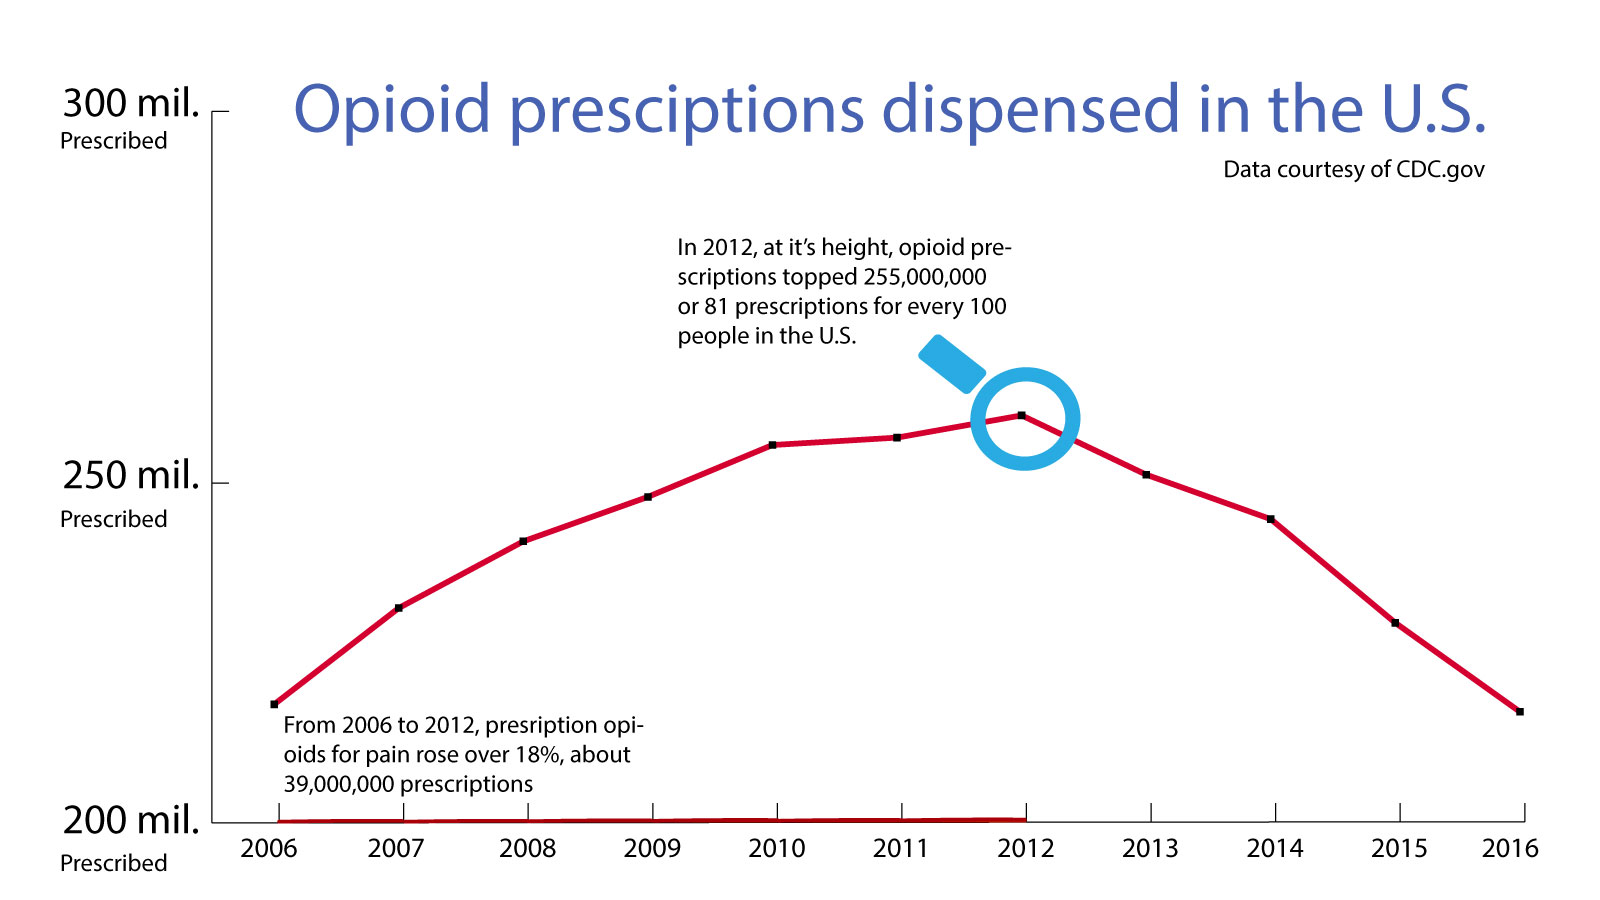
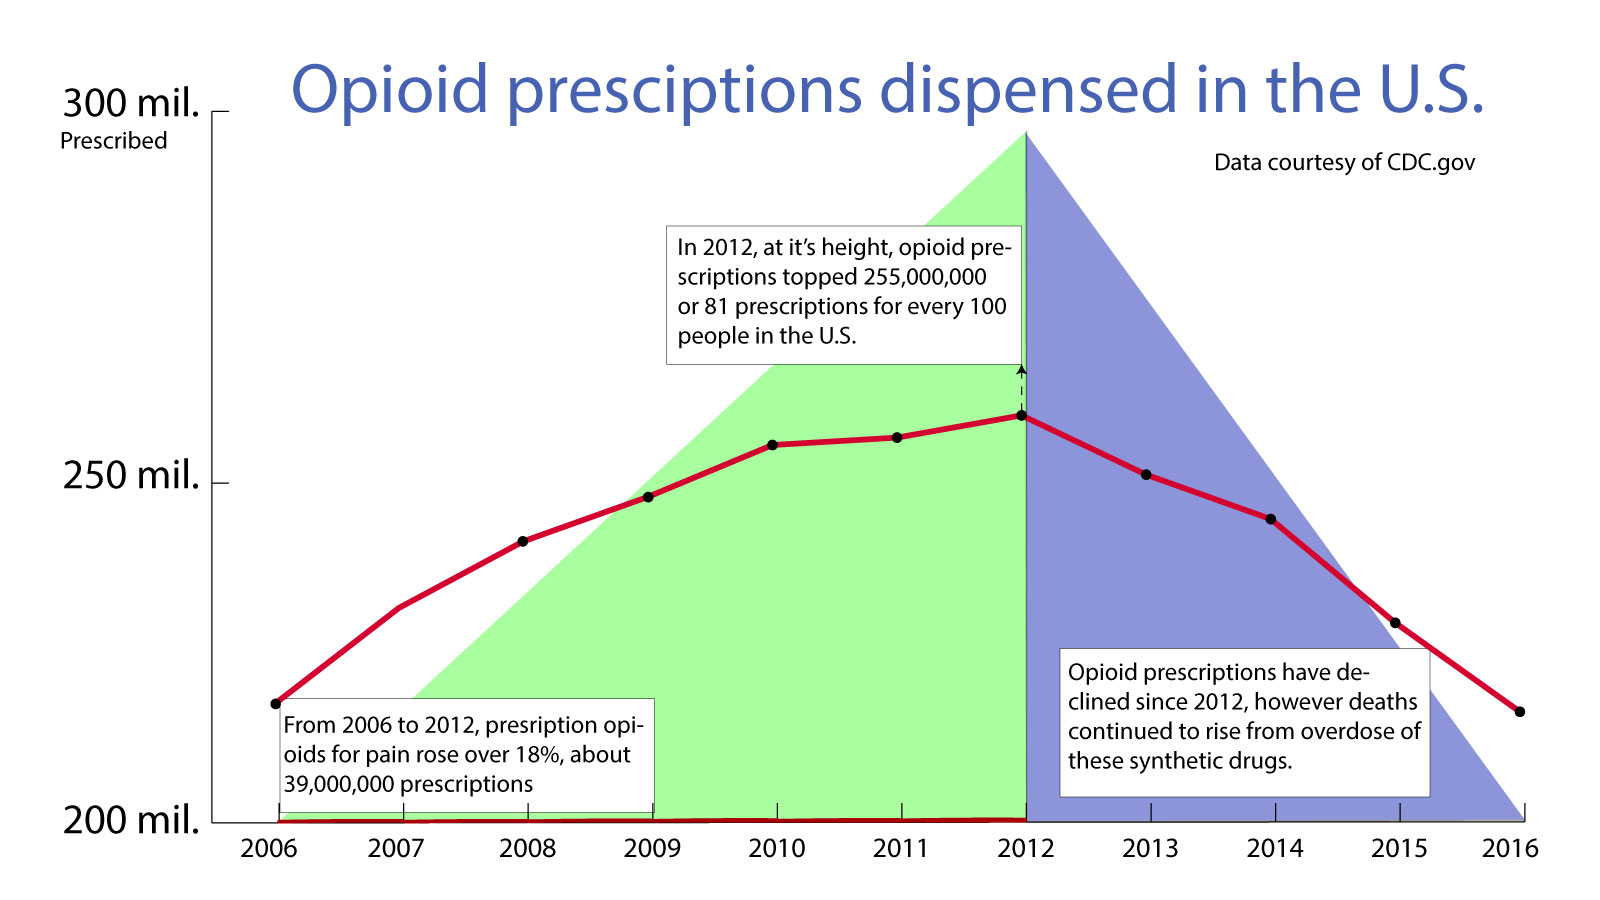
final draft

Changed region(s): [[0.1875, 0.0622, 0.9688, 0.9333], [0.0312, 0.56, 0.125, 0.5911], [0.0312, 0.9333, 0.0938, 0.9644]]

diff --git a/index.html b/index.html
@@ -21,22 +21,26 @@
 
     <div class="container">
       <h1>The Effect of a Decade of Rising Opiod Prescriptions on America</h1>
+
       <p>America is facing what the president called an “opioid epidemic” with the rampant over-prescription of synthetic opiate drugs such as OxyContin, Percocet, and Codeine causing overdose deaths. Originally prescribed for pain management, these drugs are killing people at an alarming rate. </p>
+
+      <p>At a record high in 2012, an average of 81 synthetic opioid prescriptions were dispensed per 100 people for pain across America. By 2016, the prescribing rate had decreased to 65 prescriptions per 100 people on average, however rural America and counties with smaller populations felt the impact of addiction and death much acutely. </p>
 
 <img src="images/chart 1.jpg" height =565 width =800 />
 
-<p>At a record high in 2012, an average of 81 opioid prescriptions were dispensed per 100 people for pain. By 2016, the prescribing rate had decreased nationally to about 65 prescriptions per 100 people on average, however rural America and counties with smaller populations felt the impact of addiction and death much acutely. </p>
+<p> Many small town pharmacies were flooded with pain pills and America’s over-prescription culture continued to evolve into what we now call the opioid epidemic. Prescriptions most often changed hands from relative or friend, or are prescribed by more than one physician to the same person. 
 
-<p> Many of these small town pharmacies were flooded with pain pills and America’s over-prescription culture continued to evolve into what we now call the opioid epidemic. Most of these prescriptions changed hands from relative or friend, or are prescribed by more than one physician to the same person. </p>
+<p>Overdose deaths this year also rose to an all time high in America from abuse of synthetic opioids and newer more potent versions like Carfentanil, an elephant tranqulizer, and Fentanyl, a patch reserved for end of life cancer patients. </p>
 
 <img src="images/chart 2.jpg" height =384 width =683 />
 
-<p>The pill prescription rate of synthetic opioids per 100 people were at times higher than the amount of people living in those counties. For every person in these flagged counties, there was almost one painkiller prescription dispensed per person, and sometimes two. </p>
+<p>The prescription rate of synthetic opioids per 100 people in some rural counties across America was higher than the amount of people living in those counties at the peak in 2012. 
 
-<p>Here we look at the worst places where the percent change was the highest in prescribing rates from 2006 to 2012.
-</p>
+<p>Pleasants County, West Virginia was one of the most highly prescribed places for painkillers in West Virginia. The percent change of synthetic opioid prescriptions presribed increased over 80% from 2006 to 2012 in Pleasants County--which has a population of 7,674 people. </p>
 
-<img src="images/chart 3.jpg" height =565 width =800 />
+ <p>This year in Pleasants County there are 11 pharmacies. Residents also have access to 13 more pharmacies in neighboring Marietta, Ohio. There are 20 pharmacies in nearby Parkersburg, West Virginia. </p>
+
+<img src="images/chart 3.jpg" height =450 width =800 />
     </div>
 
     <!-- Optional JavaScript -->
